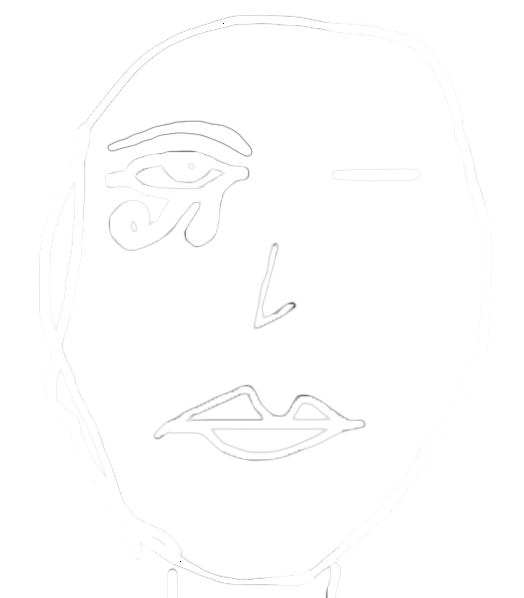
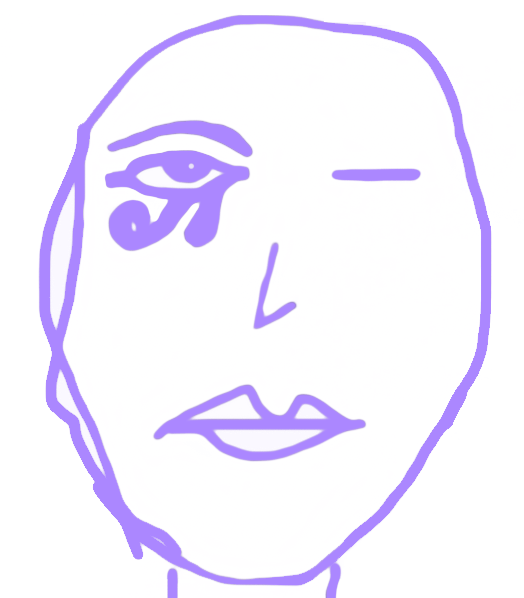
responsive dice and smaller changes

diff --git a/main.js b/main.js
@@ -90,7 +90,7 @@ const headerLogo = document.getElementsByClassName('header-logo');
 const navListItems = document.getElementsByClassName('nav-bar-list-item');
 
 toggleContainer.addEventListener('click', (e) => {
-    // shift button position and switch to light mode
+    // IF DARKMODE IS ACTIVE
     if (toggleContainer.style.justifyContent === "flex-end") {
         toggleContainer.style.justifyContent = "flex-start";
         body.classList.remove("dark-mode-active");
@@ -99,7 +99,7 @@ toggleContainer.addEventListener('click', (e) => {
             item.style.border = "1px dashed black";
         }
         // switch arrows to black
-        let arrows = document.querySelectorAll('img[src="images/Arrow-down.svg"]');
+        let arrows = document.querySelectorAll('img[src="images/Arrow-down-darkmode.png"]');
         for (let arrow of arrows) {
             arrow.src = "images/Arrow-down.svg";
         }
@@ -107,7 +107,8 @@ toggleContainer.addEventListener('click', (e) => {
         // let face = document.querySelector(".contact-image");
         // face.src = "images/face.png"
     }
-    //shift button position and switch to dark mode
+
+    // IF LIGHTMODE IS ACTIVE
     else {
         toggleContainer.style.justifyContent = "flex-end";
         document.body.setAttribute("class", "dark-mode-active");
@@ -137,4 +138,13 @@ const sketch = document.getElementById('#sketch-holder');
 sketchBtn.addEventListener('click', () => {
     sketchOverlay.style.backgroundColor = "transparent";
     sketchBtn.style.display = "none";
-})
+}, {
+    once: true
+});
+
+sketchOverlay.addEventListener('click', () => {
+    sketchOverlay.style.backgroundColor = "transparent";
+    sketchBtn.style.display = "none";
+}, {
+    once: true // This will fire the event once and remove it afterwards
+});

diff --git a/index.html b/index.html
@@ -108,10 +108,17 @@
                     </div>
                     <div class="contact-form">
                         <h2>Say hi</h2>
-                        <form class="contact-form-container" action="https://formsubmit.co/willewilkens@hotmail.se" method="POST">
+                        <form class="contact-form-container" action="https://formsubmit.co/807e56f9afb25d2168a43bd46d629081" method="POST">
+                            <!-- Honeypot -->
+                            <input type="text" name="_honey" style="display: none;">
+                            <!-- disable captcha -->
+                            <input type="hidden" name="_captcha" value="false">
+                            <!-- redirect -->
+                            <input type="hidden" name="_next" value="https://wilkuz.github.io/">
+
                             <input class="contact-form-input" type="text" name="name" id="contact-name" placeholder="Name" required><br>
                             <input class="contact-form-input" type="email" name="email" id="contact-email" placeholder="Email" required><br>
-                            <textarea class="contact-form-message" id="message" rows=   "7" placeholder="Message" required></textarea><br>
+                            <textarea class="contact-form-message" id="message" name="message" rows="7" placeholder="Message" required></textarea><br>
                             <button type="submit" class="contact-form-submit" name="Submit" action="submit">Send</button>
                         </form>
                     </div>

diff --git a/style.css b/style.css
@@ -382,15 +382,15 @@ li, a, button, h1, h3, p {
 
 .sketch-overlay {
     position: absolute;
+    display: flex;
     background-color: rgba(0, 0, 0, 0.5);
     width: 100%;
     height: 100%;
     text-align: center;
     transition: 0.3s ease;
-}
-
-.sketch-overlay h1 {
-    padding-top: 5%;
+    align-items: center;
+    justify-content: center;
+    cursor: pointer;
 }
 
 .sketch-overlay h1:hover {
@@ -422,8 +422,11 @@ li, a, button, h1, h3, p {
     overflow: hidden;
 }
 
+
 .dice-image {
     max-width: 100%;
+    min-height: 33vh;
+    object-fit: cover;
 }
 
 .contact-arrow-container {

diff --git a/sketch.js b/sketch.js
@@ -21,7 +21,7 @@
 //   	background("rgba(255,248,232,0.3)");
 //   for(let i=0; i < num; i++){
 //     let p = sketchParticles[i];
-//     let c = color(0,0,0);
+//     let c = color(171,135,255);
 //     fill(c);
 //     stroke(c);
 //     ellipse(p.x, p.y, 1, 1);
